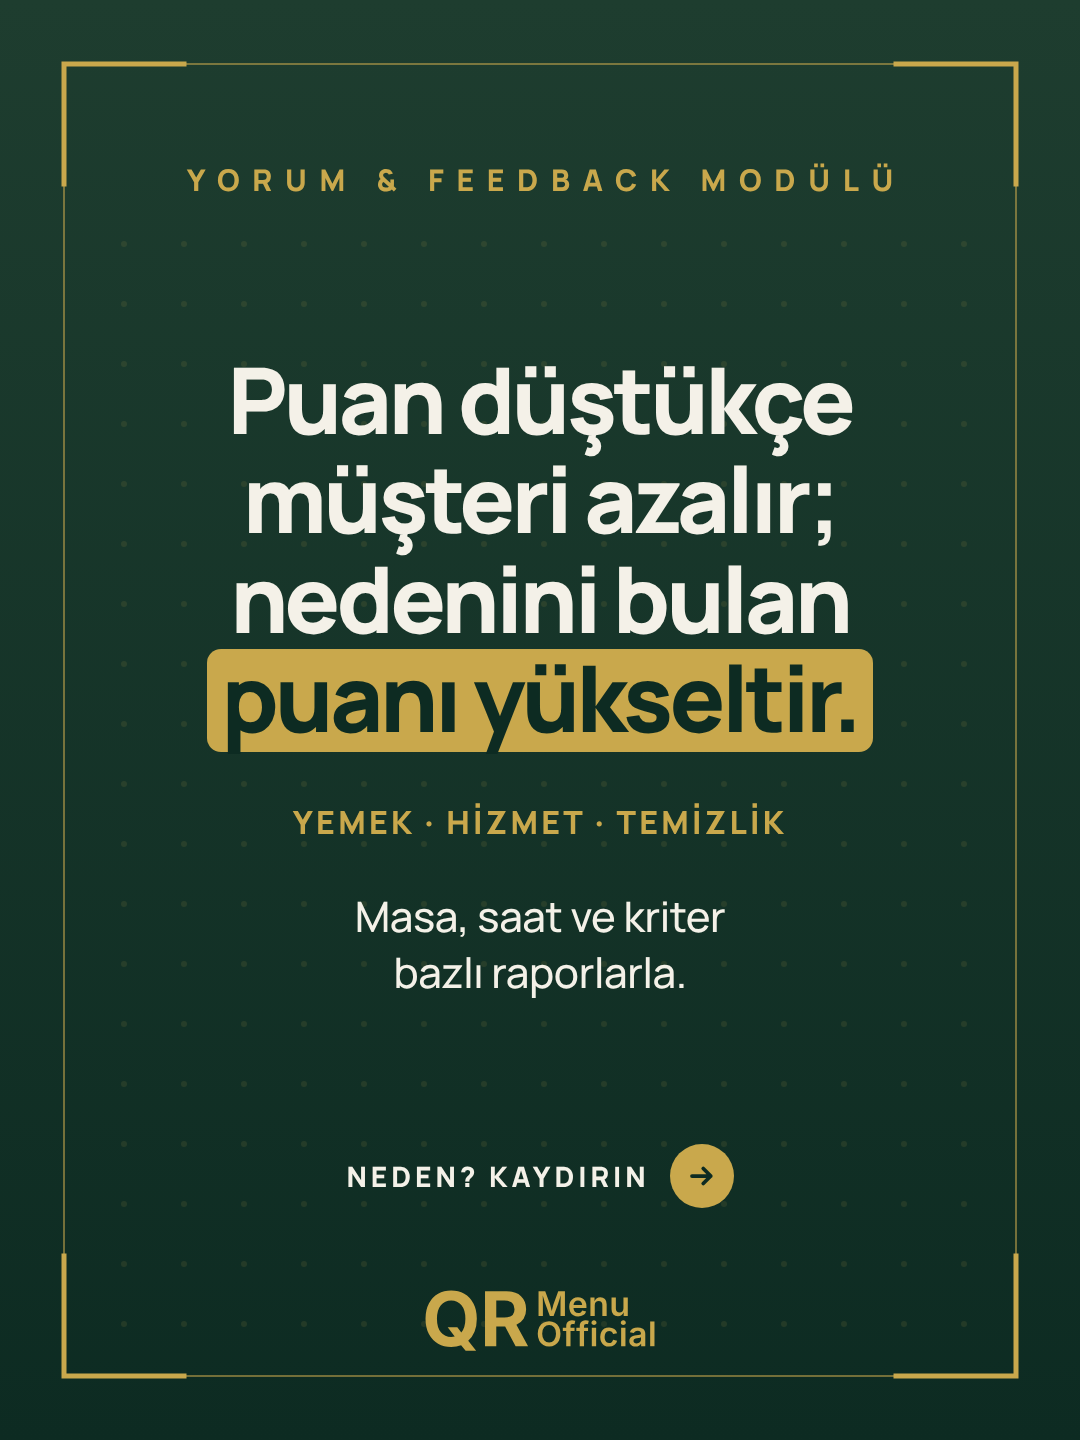
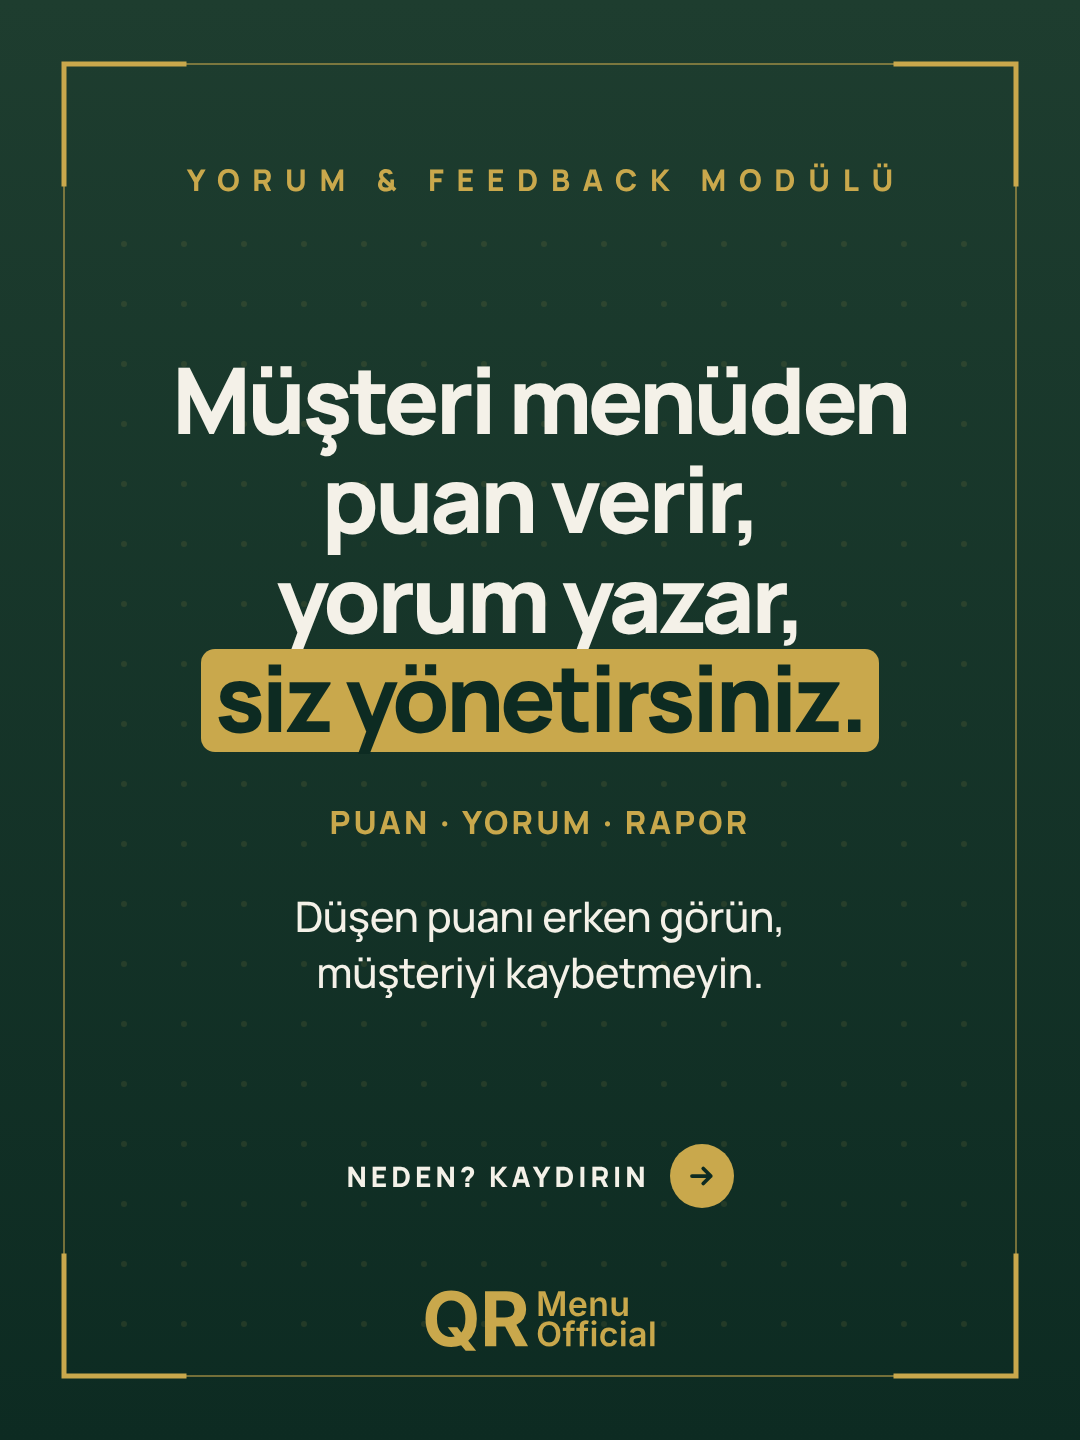
Yorum & Feedback carousel kapağı: modülü anlatan başlık (puan verir, yorum yazar, siz yönetirsiniz)
Claude-Session: https://claude.ai/code/session_01FBw9rVwrniVjyFvtgVdFXq

diff --git a/tools/ig-carousel/yorum-feedback.html b/tools/ig-carousel/yorum-feedback.html
@@ -175,9 +175,9 @@ const nx=(t,c)=>`<div class="nx">${t}<i>${ARW(c)}</i></div>`;
 const LAB='<div class="lab LCLS" style="font-size:30px;padding-top:34px">YORUM &amp; FEEDBACK MODÜLÜ</div>';
 const SL={
 1:{bg:'altin',html:()=>LAB.replace('LCLS','')+`
- <div class="area c" style="top:200px;bottom:290px"><div class="h" id="H" data-max="92" data-min="76">${L(['Puan düştükçe','müşteri azalır;','nedenini bulan','[[puanı yükseltir.]]'])}</div>
- <div class="langs">YEMEK · HİZMET · TEMİZLİK</div>
- <div class="p" id="P" data-max="42" data-min="36">${L(['Masa, saat ve kriter','bazlı raporlarla.'])}</div></div>
+ <div class="area c" style="top:200px;bottom:290px"><div class="h" id="H" data-max="92" data-min="76">${L(['Müşteri menüden','puan verir,','yorum yazar,','[[siz yönetirsiniz.]]'])}</div>
+ <div class="langs">PUAN · YORUM · RAPOR</div>
+ <div class="p" id="P" data-max="42" data-min="36">${L(['Düşen puanı erken görün,','müşteriyi kaybetmeyin.'])}</div></div>
  ${nx('Neden? Kaydırın','#F4F1E8').replace('class="nx"','class="nx" style="bottom:232px"')}<div class="logo">${LG()}</div>`},
 2:{bg:'krem',html:()=>LAB.replace('LCLS','left')+`
  <div class="area top" style="top:236px;bottom:240px"><div class="h" id="H" data-max="84" data-min="68">${L(['Bu 3 soruyu','kendinize [[sorun:]]'])}</div>
